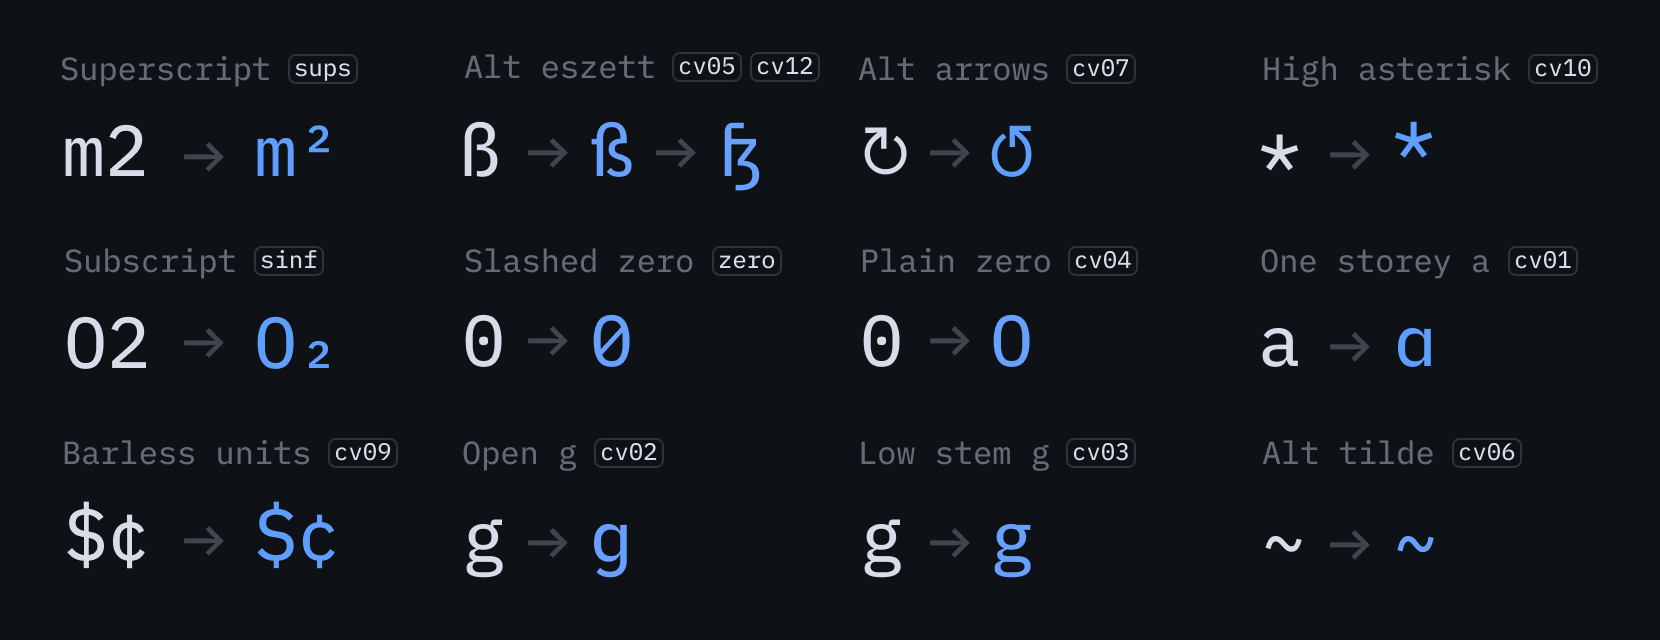
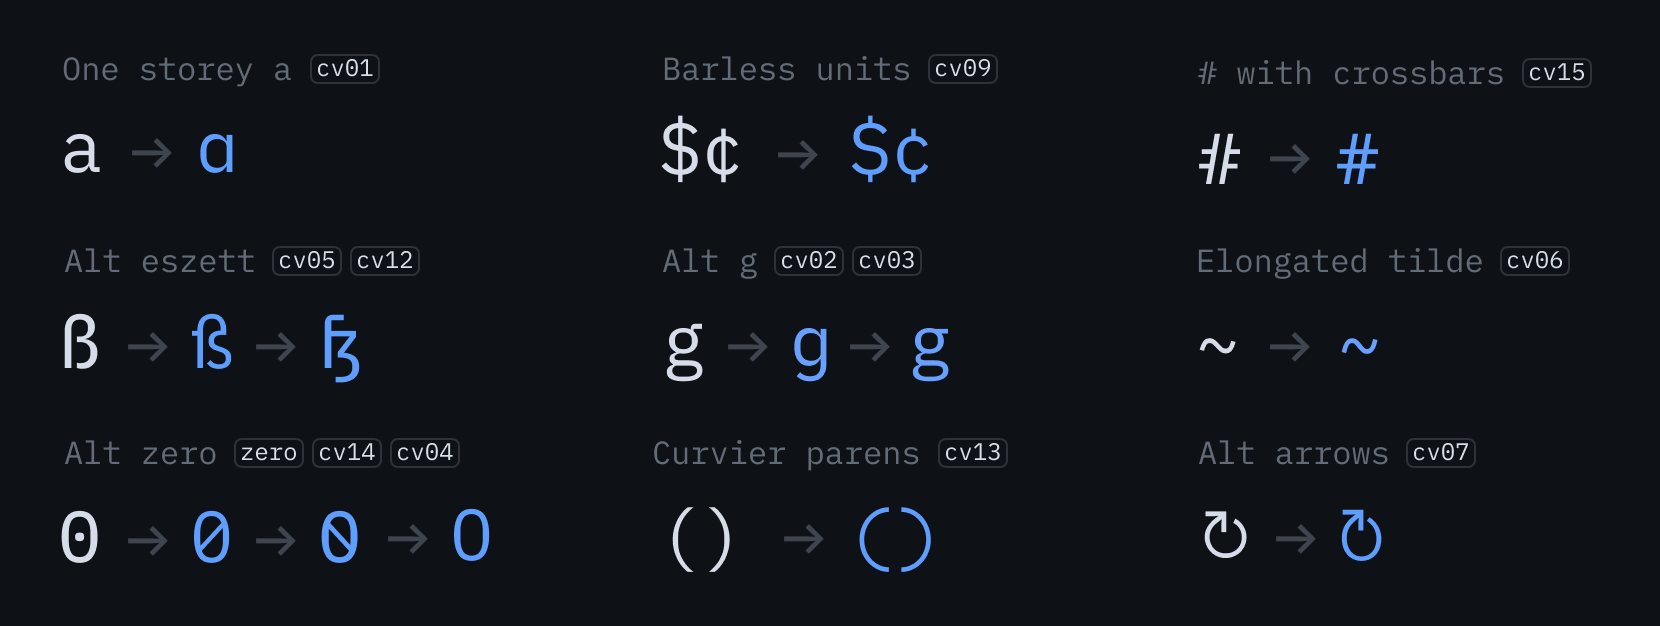
docs: update feature previews

diff --git a/README.md b/README.md
@@ -84,7 +84,11 @@ A full glyph table can be found on the [preview page](https://mishamyrt.github.i
 
 ## Features
 
-The font has additional styles for some characters, so it can be configured to better fit your needs. Instructions on how to activate OpenType features in your IDE can be found on the internet, or [build your own variation](#forced-feature-activation) of the font with forced features
+Lilex supports a wide range of OpenType features, allowing it to be used for various formats.
+
+<img src="./images/features@2x.png">
+    
+The font has additional styles for some characters, so it can be configured to better fit your needs. Instructions on how to activate OpenType features in your IDE can be found on the internet.
 
 <img src="./images/alternatives@2x.png">
 
